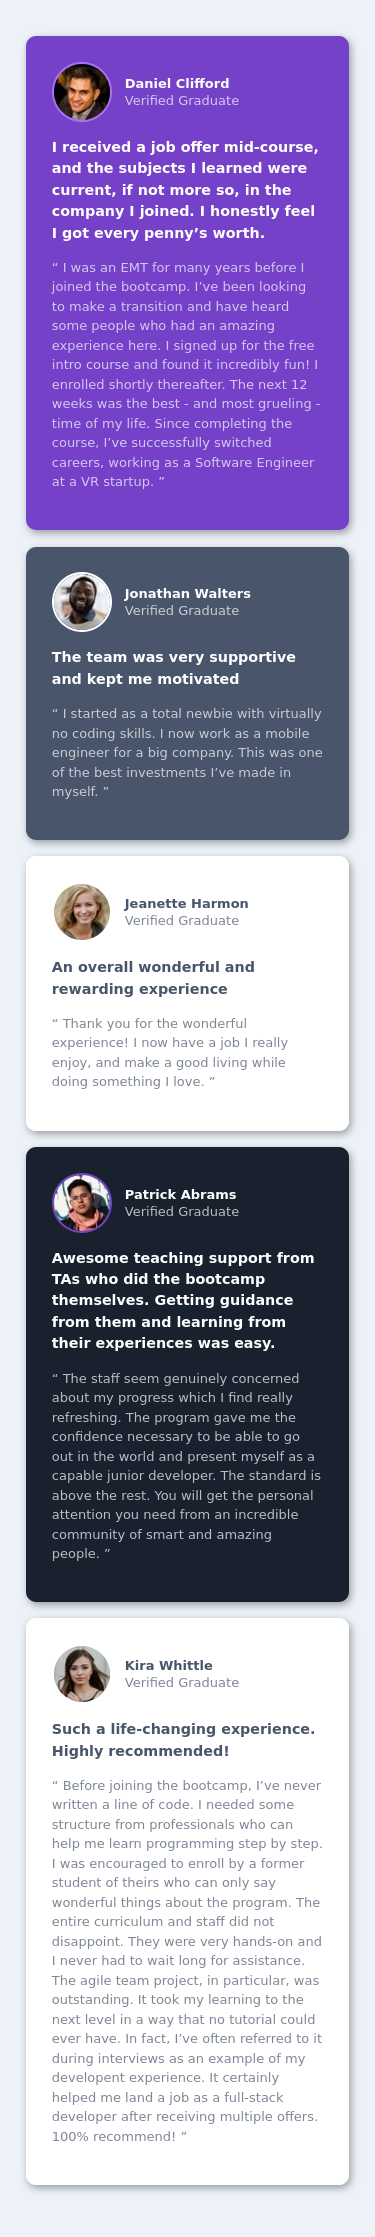
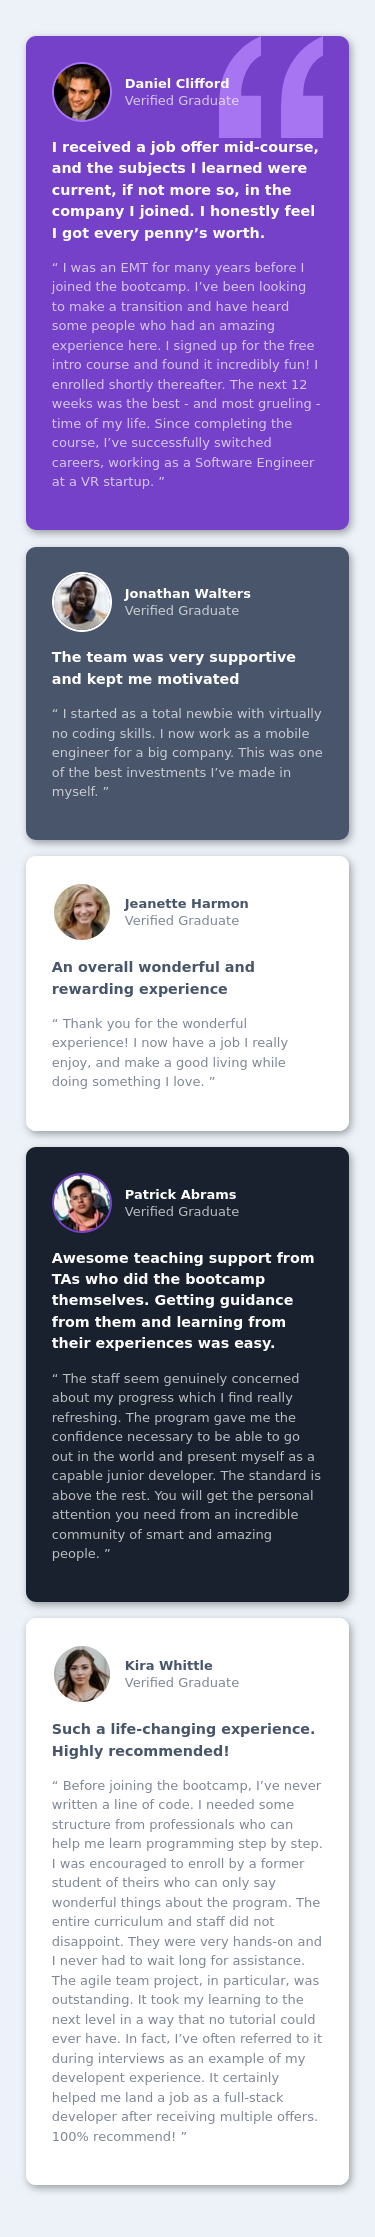
Added the background photo to the first testimonial.

Changed region(s): [[0.7333, 0.0, 0.88, 0.0617], [0.5867, 0.0, 0.704, 0.0617]]

diff --git a/(Personal Solution) Frontend Mentor CSS Flexbox Testimonials Challenge/index.html b/(Personal Solution) Frontend Mentor CSS Flexbox Testimonials Challenge/index.html
@@ -17,97 +17,112 @@
 
     <div id="main-container">
         <div id="left-section">
-        <div id="top-section">
-        <div id="testimonial-1" class="testimonials">
-            <div class="testimonial-header">
-                <img src="./images/image-daniel.jpg" alt="daniel photo">
-                <div class="header-text">
-                    <p class="graduate-name">Daniel Clifford</p>
-                    <p class="verified-text">Verified Graduate</p>
+            <div id="top-section">
+                <div id="testimonial-1" class="testimonials">
+                    <div class="testimonial-header">
+                        <img src="./images/image-daniel.jpg" alt="daniel photo">
+                        <div class="header-text">
+                            <p class="graduate-name">Daniel Clifford</p>
+                            <p class="verified-text">Verified Graduate</p>
+                        </div>
+                    </div>
+                    <div id="quote">
+                        <svg width="104" height="102" xmlns="http://www.w3.org/2000/svg">
+                            <path
+                                d="M104 102V59.727H84.114c0-5.871.689-11.182 2.068-15.933 1.379-4.75 3.42-9.287 6.125-13.61C95.01 25.86 98.909 22.257 104 19.375V0c-9.758 4.27-17.712 9.874-23.864 16.813-6.151 6.939-10.712 14.545-13.681 22.818C63.485 47.904 62 59.941 62 75.74V102h42zm-62 0V59.727H22.114c0-5.871.689-11.182 2.068-15.933 1.379-4.75 3.42-9.287 6.125-13.61C33.01 25.86 36.909 22.257 42 19.375V0c-9.652 4.27-17.58 9.874-23.784 16.813C12.01 23.752 7.424 31.358 4.455 39.631 1.485 47.904 0 59.941 0 75.74V102h42z"
+                                fill="#A775F1" fill-rule="nonzero" />
+                        </svg>
+                    </div>
+                    <p class="main-testimony">
+                        I received a job offer mid-course, and the subjects I learned were current, if not more so,
+                        in the company I joined. I honestly feel I got every penny’s worth.
+                    </p>
+                    <p class="sub-testimony">
+                        “ I was an EMT for many years before I joined the bootcamp. I’ve been looking to make a
+                        transition and have heard some people who had an amazing experience here. I signed up
+                        for the free intro course and found it incredibly fun! I enrolled shortly thereafter.
+                        The next 12 weeks was the best - and most grueling - time of my life. Since completing
+                        the course, I’ve successfully switched careers, working as a Software Engineer at a VR startup.
+                        ”
+                    </p>
+                </div>
+                <div id="testimonial-2" class="testimonials">
+                    <div class="testimonial-header">
+                        <img src="./images/image-jonathan.jpg" alt="jonathan photo">
+                        <div class="header-text">
+                            <p class="graduate-name">Jonathan Walters</p>
+                            <p class="verified-text">Verified Graduate</p>
+                        </div>
+                    </div>
+                    <p class="main-testimony">The team was very supportive and kept me motivated</p>
+                    <p class="sub-testimony">“ I started as a total newbie with virtually no coding skills. I now work
+                        as a
+                        mobile engineer
+                        for a big company. This was one of the best investments I’ve made in myself. ”</p>
                 </div>
             </div>
-            <!-- <svg width="104" height="102" xmlns="http://www.w3.org/2000/svg"><path d="M104 102V59.727H84.114c0-5.871.689-11.182 2.068-15.933 1.379-4.75 3.42-9.287 6.125-13.61C95.01 25.86 98.909 22.257 104 19.375V0c-9.758 4.27-17.712 9.874-23.864 16.813-6.151 6.939-10.712 14.545-13.681 22.818C63.485 47.904 62 59.941 62 75.74V102h42zm-62 0V59.727H22.114c0-5.871.689-11.182 2.068-15.933 1.379-4.75 3.42-9.287 6.125-13.61C33.01 25.86 36.909 22.257 42 19.375V0c-9.652 4.27-17.58 9.874-23.784 16.813C12.01 23.752 7.424 31.358 4.455 39.631 1.485 47.904 0 59.941 0 75.74V102h42z" fill="#A775F1" fill-rule="nonzero"/></svg> -->
-            <p class="main-testimony">
-                I received a job offer mid-course, and the subjects I learned were current, if not more so,
-                in the company I joined. I honestly feel I got every penny’s worth.
-            </p>
-            <p class="sub-testimony">
-                “ I was an EMT for many years before I joined the bootcamp. I’ve been looking to make a
-                transition and have heard some people who had an amazing experience here. I signed up
-                for the free intro course and found it incredibly fun! I enrolled shortly thereafter.
-                The next 12 weeks was the best - and most grueling - time of my life. Since completing
-                the course, I’ve successfully switched careers, working as a Software Engineer at a VR startup. ”
-            </p>
+            <div id="bottom-section">
+                <div id="testimonial-3" class="testimonials">
+                    <div class="testimonial-header">
+                        <img src="./images/image-jeanette.jpg" alt="jeanette photo">
+                        <div class="header-text">
+                            <p class="graduate-name">Jeanette Harmon</p>
+                            <p class="verified-text">Verified Graduate</p>
+                        </div>
+                    </div>
+                    <p class="main-testimony">An overall wonderful and rewarding experience</p>
+                    <p class="sub-testimony">“ Thank you for the wonderful experience! I now have a job I really enjoy,
+                        and make
+                        a good living
+                        while doing something I love. ”</p>
+                </div>
+                <div id="testimonial-4" class="testimonials">
+                    <div class="testimonial-header">
+                        <img src="./images/image-patrick.jpg" alt="patrick photo">
+                        <div class="header-text">
+                            <p class="graduate-name">Patrick Abrams</p>
+                            <p class="verified-text">Verified Graduate</p>
+                        </div>
+                    </div>
+                    <p class="main-testimony">Awesome teaching support from TAs who did the bootcamp themselves. Getting
+                        guidance from them and
+                        learning from their experiences was easy.</p>
+                    <p class="sub-testimony">“ The staff seem genuinely concerned about my progress which I find really
+                        refreshing. The program
+                        gave me the confidence necessary to be able to go out in the world and present myself as a
+                        capable
+                        junior developer. The standard is above the rest. You will get the personal attention you need
+                        from
+                        an incredible community of smart and amazing people. ”</p>
+                </div>
+            </div>
         </div>
-        <div id="testimonial-2" class="testimonials">
-            <div class="testimonial-header">
-                <img src="./images/image-jonathan.jpg" alt="jonathan photo">
-                <div class="header-text">
-                    <p class="graduate-name">Jonathan Walters</p>
-                    <p class="verified-text">Verified Graduate</p>
+        <div id="right-section">
+            <div id="testimonial-5" class="testimonials">
+                <div class="testimonial-header">
+                    <img src="./images/image-kira.jpg" alt="kira photo">
+                    <div class="header-text">
+                        <p class="graduate-name">Kira Whittle</p>
+                        <p class="verified-text">Verified Graduate</p>
+                    </div>
                 </div>
+                <p class="main-testimony">Such a life-changing experience. Highly recommended!</p>
+                <p class="sub-testimony">“ Before joining the bootcamp, I’ve never written a line of code. I needed some
+                    structure from
+                    professionals who can help me learn programming step by step. I was encouraged to enroll by a former
+                    student of theirs who can only say wonderful things about the program. The entire curriculum and
+                    staff
+                    did not disappoint. They were very hands-on and I never had to wait long for assistance. The agile
+                    team
+                    project, in particular, was outstanding. It took my learning to the next level in a way that no
+                    tutorial
+                    could ever have. In fact, I’ve often referred to it during interviews as an example of my developent
+                    experience. It certainly helped me land a job as a full-stack developer after receiving multiple
+                    offers.
+                    100% recommend! ”</p>
             </div>
-            <p class="main-testimony">The team was very supportive and kept me motivated</p>
-            <p class="sub-testimony">“ I started as a total newbie with virtually no coding skills. I now work as a
-                mobile engineer
-                for a big company. This was one of the best investments I’ve made in myself. ”</p>
         </div>
     </div>
-    <div id="bottom-section">
-        <div id="testimonial-3" class="testimonials">
-            <div class="testimonial-header">
-                <img src="./images/image-jeanette.jpg" alt="jeanette photo">
-                <div class="header-text">
-                    <p class="graduate-name">Jeanette Harmon</p>
-                    <p class="verified-text">Verified Graduate</p>
-                </div>
-            </div>
-            <p class="main-testimony">An overall wonderful and rewarding experience</p>
-            <p class="sub-testimony">“ Thank you for the wonderful experience! I now have a job I really enjoy, and make
-                a good living
-                while doing something I love. ”</p>
-        </div>
-        <div id="testimonial-4" class="testimonials">
-            <div class="testimonial-header">
-                <img src="./images/image-patrick.jpg" alt="patrick photo">
-                <div class="header-text">
-                    <p class="graduate-name">Patrick Abrams</p>
-                    <p class="verified-text">Verified Graduate</p>
-                </div>
-            </div>
-            <p class="main-testimony">Awesome teaching support from TAs who did the bootcamp themselves. Getting
-                guidance from them and
-                learning from their experiences was easy.</p>
-            <p class="sub-testimony">“ The staff seem genuinely concerned about my progress which I find really
-                refreshing. The program
-                gave me the confidence necessary to be able to go out in the world and present myself as a capable
-                junior developer. The standard is above the rest. You will get the personal attention you need from
-                an incredible community of smart and amazing people. ”</p>
-        </div>
-    </div>
-</div>
-<div id="right-section">
-        <div id="testimonial-5" class="testimonials">
-            <div class="testimonial-header">
-                <img src="./images/image-kira.jpg" alt="kira photo">
-                <div class="header-text">
-                    <p class="graduate-name">Kira Whittle</p>
-                    <p class="verified-text">Verified Graduate</p>
-                </div>
-            </div>
-            <p class="main-testimony">Such a life-changing experience. Highly recommended!</p>
-            <p class="sub-testimony">“ Before joining the bootcamp, I’ve never written a line of code. I needed some
-                structure from
-                professionals who can help me learn programming step by step. I was encouraged to enroll by a former
-                student of theirs who can only say wonderful things about the program. The entire curriculum and staff
-                did not disappoint. They were very hands-on and I never had to wait long for assistance. The agile team
-                project, in particular, was outstanding. It took my learning to the next level in a way that no tutorial
-                could ever have. In fact, I’ve often referred to it during interviews as an example of my developent
-                experience. It certainly helped me land a job as a full-stack developer after receiving multiple offers.
-                100% recommend! ”</p>
-        </div>
-    </div>
-</div>
 
 </body>
 

diff --git a/(Personal Solution) Frontend Mentor CSS Flexbox Testimonials Challenge/style.css b/(Personal Solution) Frontend Mentor CSS Flexbox Testimonials Challenge/style.css
@@ -105,6 +105,29 @@ html {
     border: 2px solid white;
 }
 
+#testimonial-1 .testimonial-header {
+    position: relative;
+    z-index: 1;
+}
+
+#testimonial-1 {
+    position: relative;
+    z-index: 1;
+}
+
+#testimonial-1 .main-testimony {
+    position: relative;
+    z-index: 1;
+}
+
+/* This having a z-index of 0  and the text having a z-index of 1 means that the quote will be behind the text within the testimonial */
+#quote {
+    position: absolute;
+    right: 2rem;
+    top: 0rem;
+    z-index: 0;
+}
+
 /* Desktop version */
 @media (min-width: 576px) {
 
@@ -171,6 +194,10 @@ html {
 
     .testimonial-header img {
         width: 2.8rem;
+    }
+
+    #quote {
+        right: 9rem;
     }
 
 }
